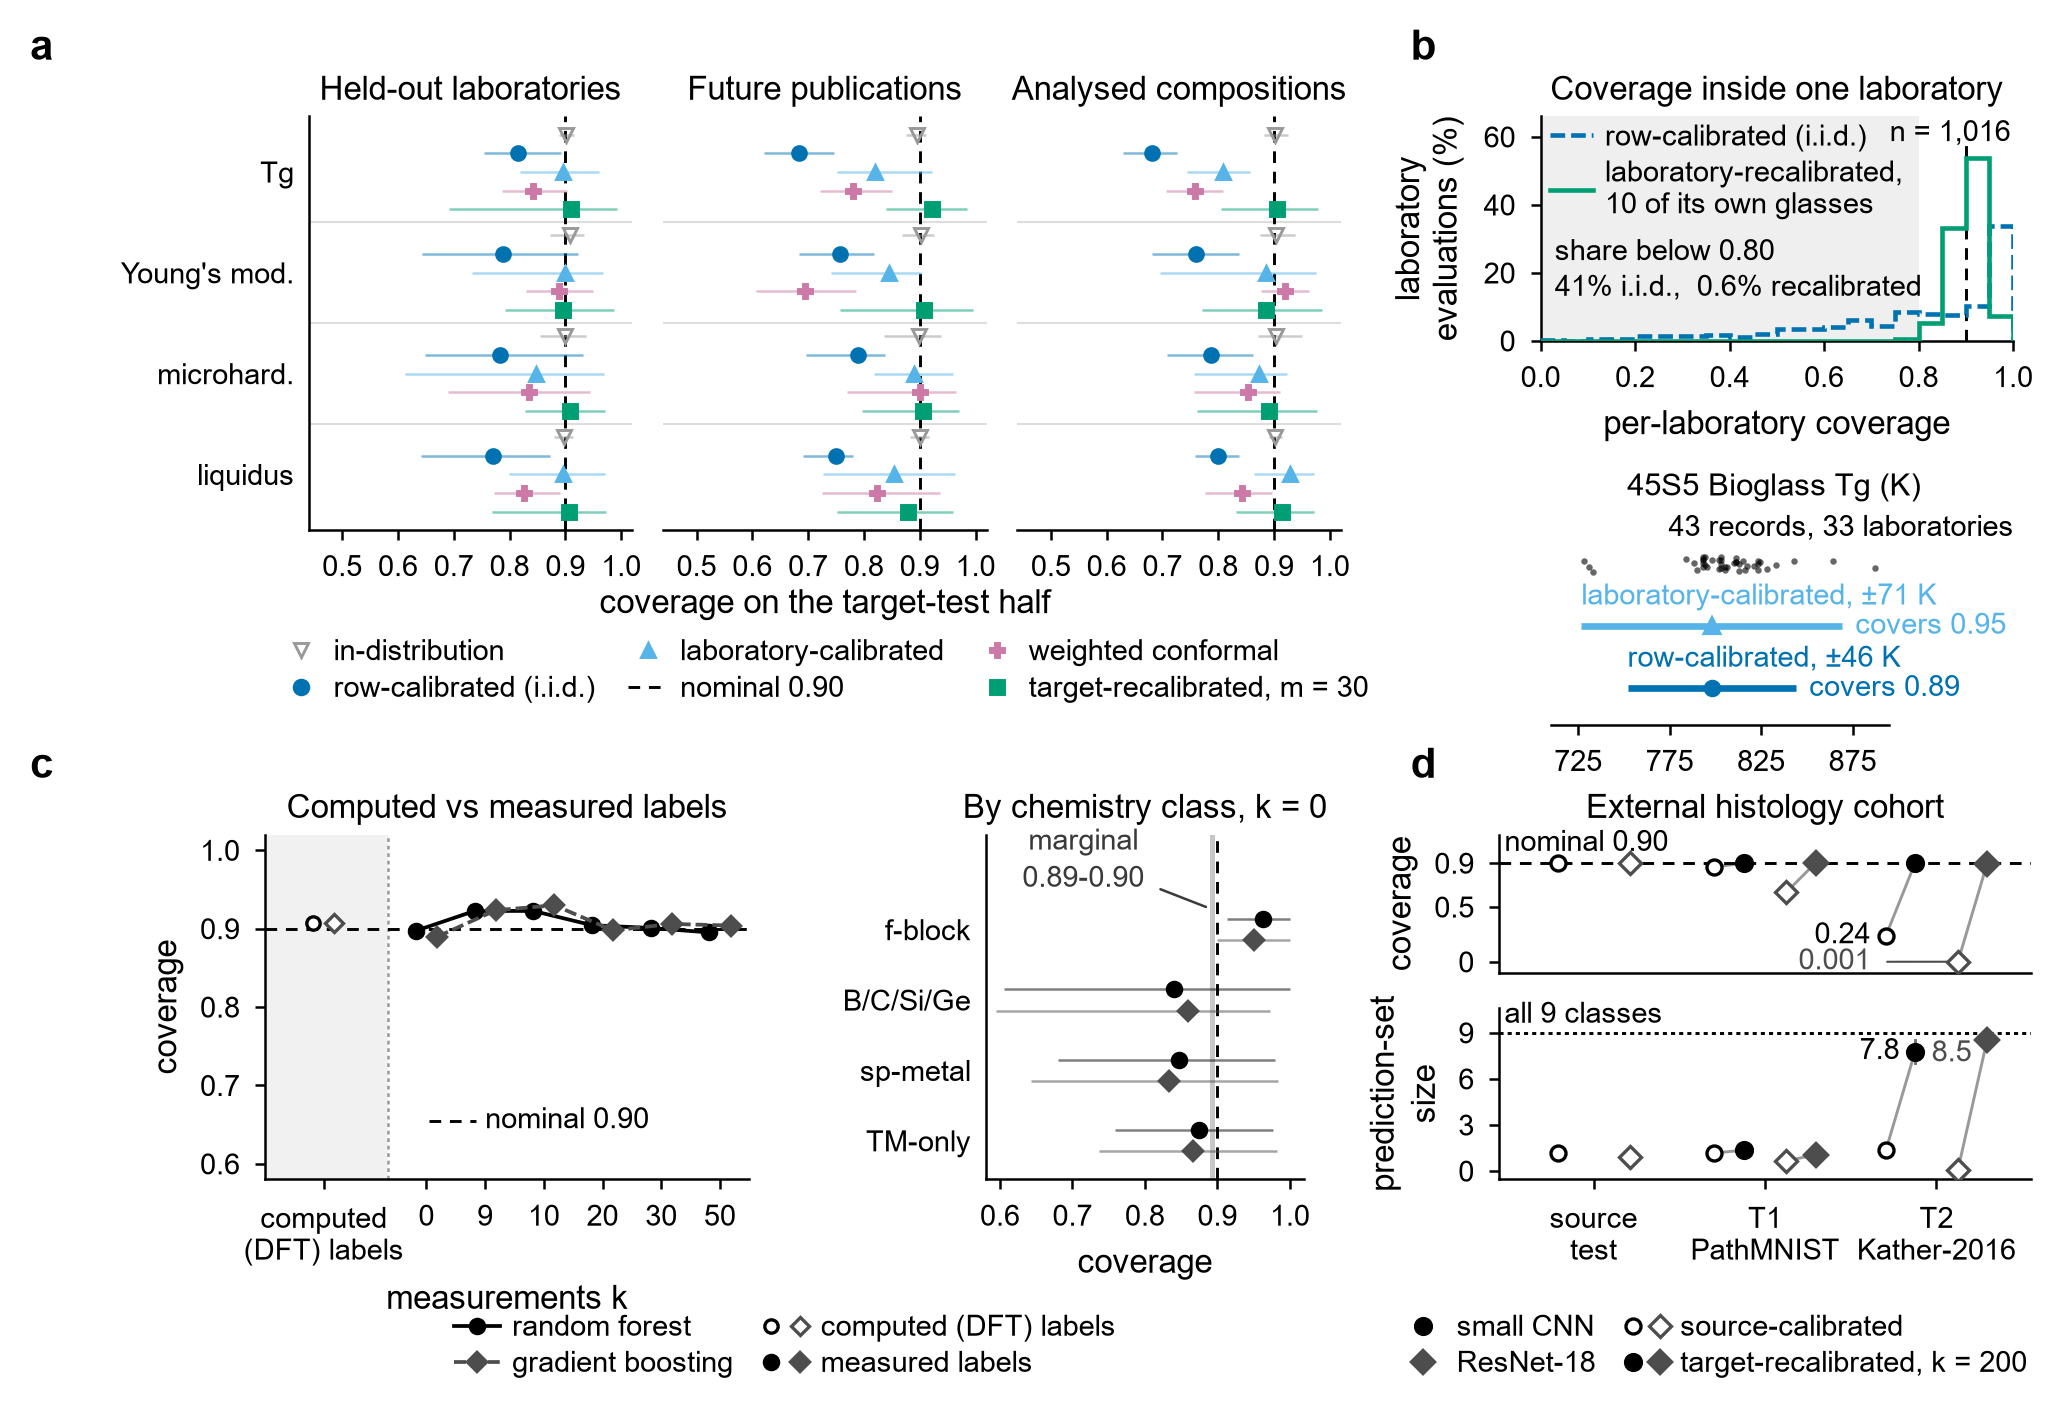
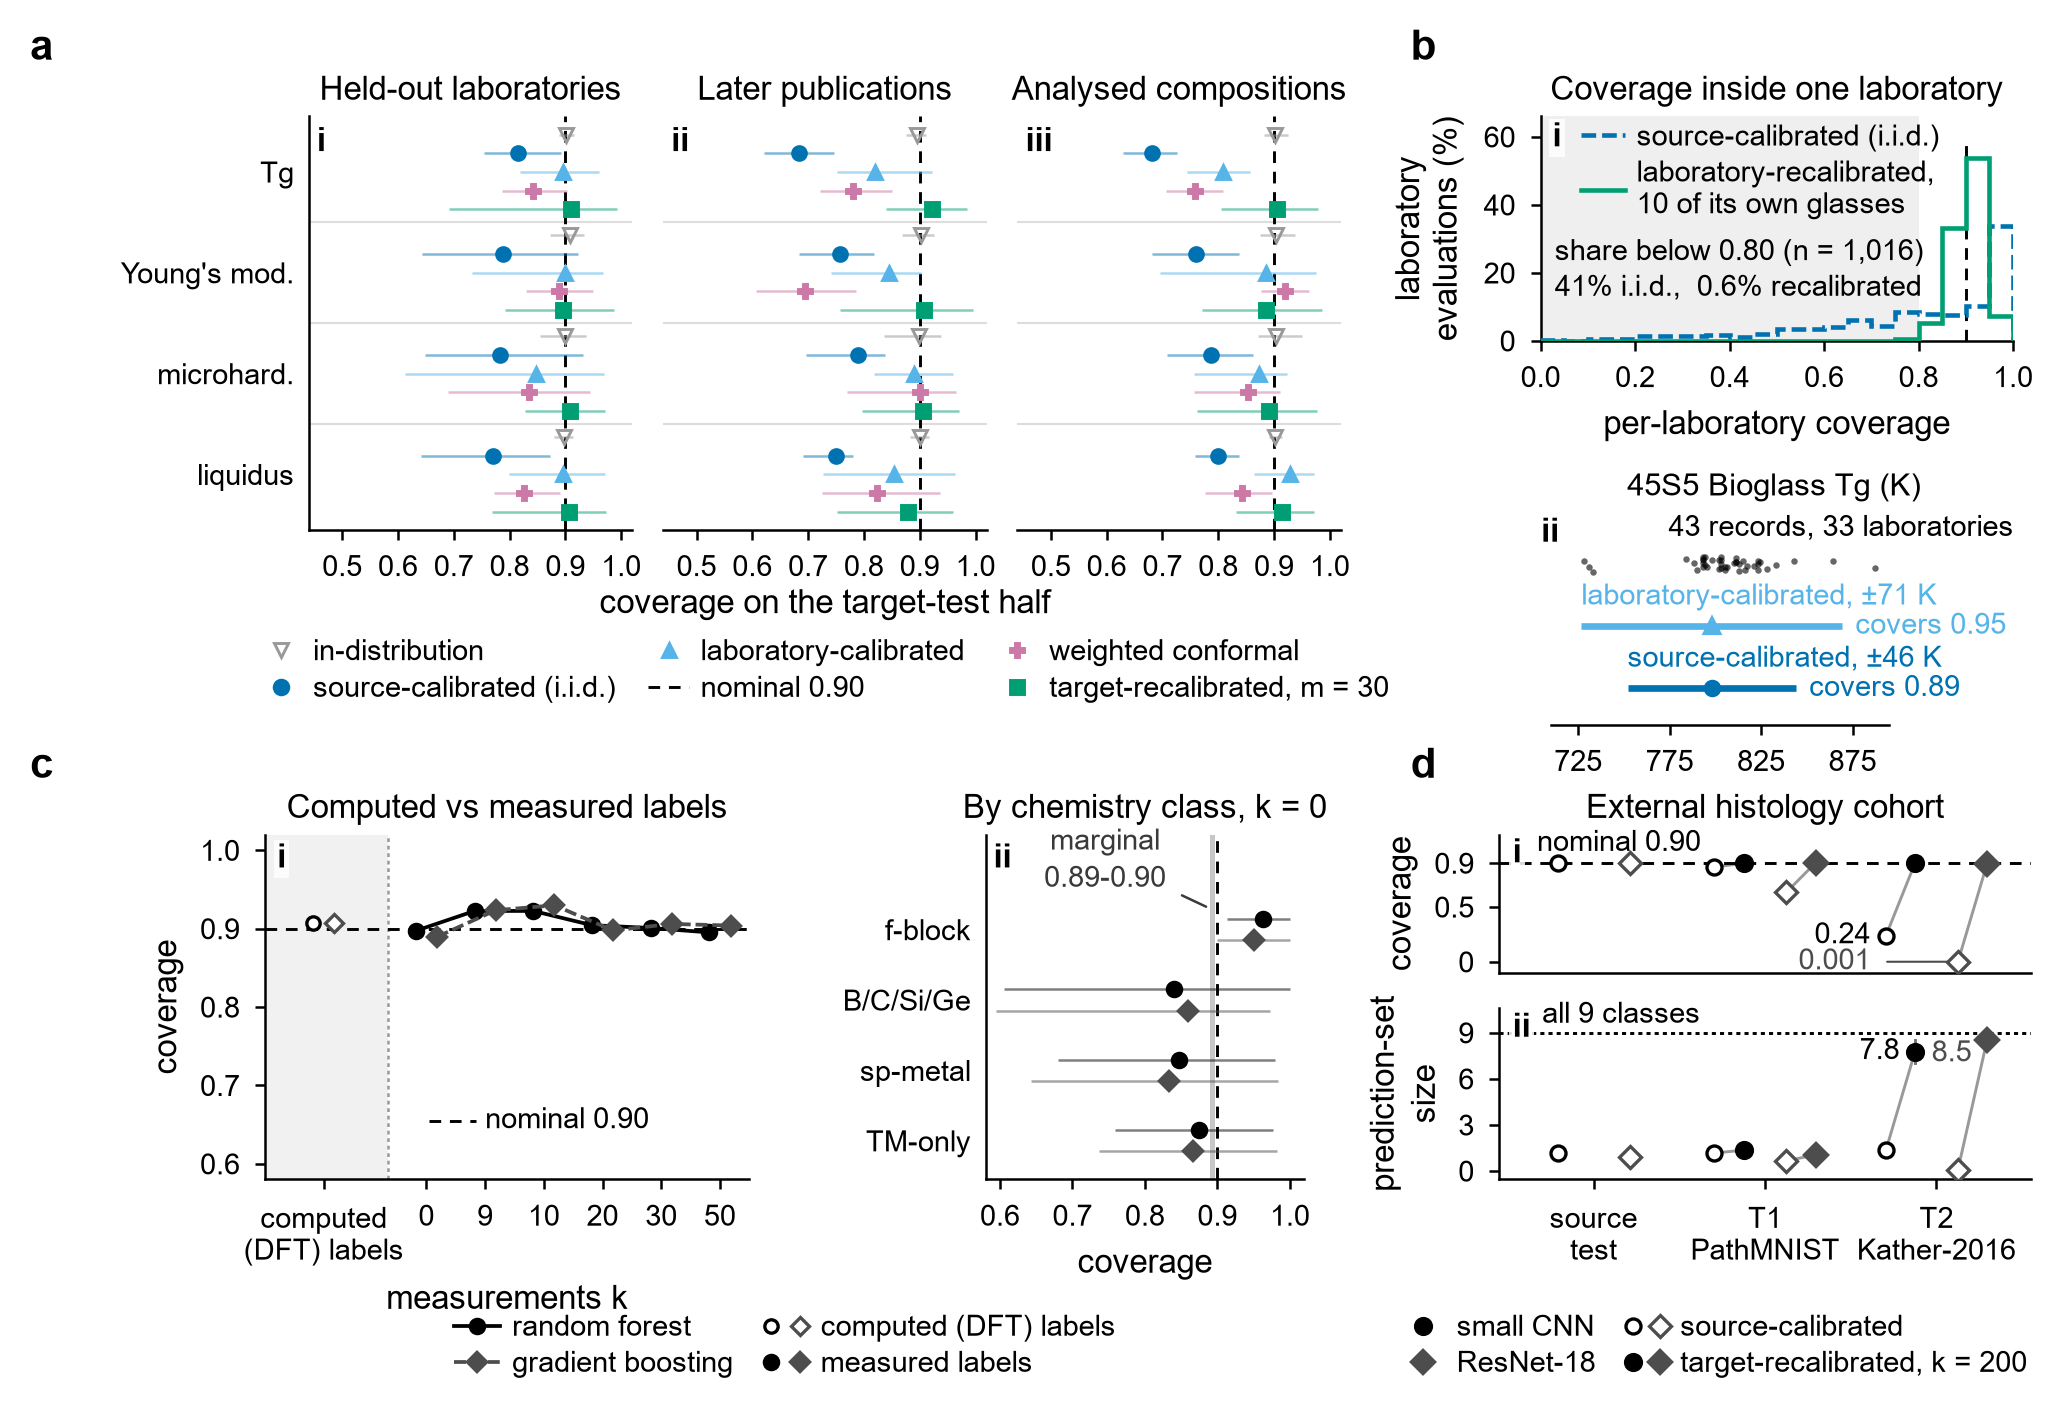
Fig 5: bold i/ii/iii sub-panel labels, source-calibrated key; Fig 7d: abstention on the design-region IQR scale

diff --git a/figures/fig5_genuine_shifts.py b/figures/fig5_genuine_shifts.py
@@ -120,11 +120,11 @@ def box(x0, y0, x1, y1):
 # ===================================================================== a
 PROPS = [("Tg", "Tg"), ("YoungModulus", "Young's mod."),
          ("Microhardness", "microhard."), ("Tliquidus", "liquidus")]
-FAM = [("A_labout", "Held-out laboratories"), ("B_temporal", "Future publications"),
+FAM = [("A_labout", "Held-out laboratories"), ("B_temporal", "Later publications"),
        ("C_analysed", "Analysed compositions")]
 # key, label, colour, marker, marker face  (colour AND marker AND row are redundant)
 METH = [("id.row.coverage", "in-distribution", GREY, "v", "none"),
-        ("tgt_test_a.row.coverage", "row-calibrated (i.i.d.)", ROLE["source"], "o", None),
+        ("tgt_test_a.row.coverage", "source-calibrated (i.i.d.)", ROLE["source"], "o", None),
         ("tgt_test_a.lab.coverage", "laboratory-calibrated", OI["skyblue"], "^", None),
         ("weighted.test_a.coverage", "weighted conformal", OI["purple"], "P", None),
         ("recal_a.m.coverage", "target-recalibrated, m = 30", ROLE["recal"], "s", None)]
@@ -203,14 +203,13 @@ axB.set_title("Coverage inside one laboratory", fontsize=8)
 # key: line style carries the series identity, so it is legible without colour,
 # and it sits in the empty upper-left corner, outside the two histograms.
 hB = [Line2D([], [], color=ROLE["source"], lw=1.1, ls=LS_SRC,
-             label="row-calibrated (i.i.d.)"),
+             label="source-calibrated (i.i.d.)"),
       Line2D([], [], color=ROLE["recal"], lw=1.1, ls="-",
              label="laboratory-recalibrated,\n10 of its own glasses")]
-axB.legend(handles=hB, loc="upper left", bbox_to_anchor=(-0.012, 1.03),
+axB.legend(handles=hB, loc="upper left", bbox_to_anchor=(0.055, 1.03),   # clear of sub-panel label i
            handlelength=1.5, handletextpad=0.4, labelspacing=0.22, borderpad=0.0)
 # the two shares, named in words so that nothing here depends on colour
-axB.text(0.995, 65.0, f"n = {len(row):,}", fontsize=7, ha="right", va="top")
-axB.text(0.03, 30.0, "share below 0.80", fontsize=7, ha="left", va="top")
+axB.text(0.03, 30.0, f"share below 0.80 (n = {len(row):,})", fontsize=7, ha="left", va="top")
 axB.text(0.03, 19.5, f"{sh_row * 100:.0f}% i.i.d.,  {sh_l10 * 100:.1f}% recalibrated",
          fontsize=7, ha="left", va="top")
 
@@ -227,7 +226,7 @@ axBi.scatter(rec, 2.55 + rng.uniform(-0.15, 0.15, len(rec)), s=2.4, marker="o",
 for y, q, col, mrk, cv, nm in [(1.35, q_lab, OI["skyblue"], "^", c_lab,
                                 "laboratory-calibrated"),
                                (0.15, q_row, ROLE["source"], "o", c_row,
-                                "row-calibrated")]:
+                                "source-calibrated")]:
     axBi.plot([cen - q, cen + q], [y, y], color=col, lw=1.6, solid_capstyle="butt",
               zorder=3)
     axBi.plot([cen], [y], marker=mrk, ms=3.2, color=col, zorder=4)
@@ -321,7 +320,7 @@ axC2.set_xlabel("coverage")
 axC2.set_title("By chemistry class, k = 0", fontsize=8)
 # the marginal value is named with its numbers and its leader ends on the LEFT
 # edge of the grey band, so that it cannot be read as pointing at nominal 0.90
-axC2.annotate(f"marginal\n{mlo:.2f}-{mhi:.2f}", xy=(mlo, 3.30), xytext=(0.715, 4.00),
+axC2.annotate(f"marginal\n{mlo:.2f}-{mhi:.2f}", xy=(mlo, 3.30), xytext=(0.745, 4.00),
               fontsize=7, color="#3A3A3A", ha="center", va="center", linespacing=1.25,
               arrowprops=dict(arrowstyle="-", lw=0.6, color="#3A3A3A",
                               shrinkA=2, shrinkB=1))
@@ -370,7 +369,7 @@ axD1.set_ylabel("coverage")
 axD1.set_xticklabels([])
 axD1.tick_params(axis="x", length=0)
 axD1.set_title("External histology cohort", fontsize=8)
-axD1.text(-0.52, 0.955, "nominal 0.90", fontsize=7, ha="left", va="bottom",
+axD1.text(-0.33, 0.955, "nominal 0.90", fontsize=7, ha="left", va="bottom",
           color=ROLE["ideal"])
 T2 = {m: R5["architectures"][m]["results"]["T2_Kather2016_5class"]["LAC"]
       for m, _, _, _ in MODd}
@@ -389,7 +388,7 @@ axD2.set_ylim(-0.55, 10.6)
 axD2.set_yticks([0, 3, 6, 9])
 axD2.set_ylabel("prediction-set\nsize", linespacing=1.2)
 axD2.set_xticklabels([d for _, d in DOM])
-axD2.text(-0.52, 9.25, f"all {NCLASS} classes", fontsize=7, ha="left", va="bottom",
+axD2.text(-0.30, 9.25, f"all {NCLASS} classes", fontsize=7, ha="left", va="bottom",
           color=ROLE["ideal"])
 axD2.text(2 - DXMOD + DXCAL - 0.09, T2["SmallCNN"][KR]["set_size"]["mean"],
           f"{T2['SmallCNN'][KR]['set_size']['mean']:.1f}", fontsize=7, ha="right",
@@ -428,6 +427,17 @@ fig.legend(handles=hD, labels=[MODd[0][1], MODd[1][1], "source-calibrated",
            ncol=2, handlelength=1.5, handletextpad=0.4, labelspacing=0.3,
            columnspacing=1.0, borderpad=0.0,
            handler_map={tuple: HandlerTuple(ndivide=None, pad=0.35)})
+
+# ============================================== sub-panel labels (editor: i ii iii, bold, top left)
+def sub(ax, roman, x=0.025, y=0.975):
+    ax.text(x, y, roman, transform=ax.transAxes, fontsize=8, fontweight="bold",
+            ha="left", va="top", zorder=9,
+            bbox=dict(fc="white", ec="none", alpha=0.85, pad=0.8))
+
+
+for ax, r in [(axA[0], "i"), (axA[1], "ii"), (axA[2], "iii"), (axB, "i"), (axBi, "ii"),
+              (axC1, "i"), (axC2, "ii"), (axD1, "i"), (axD2, "ii")]:
+    sub(ax, r)
 
 # ===================================================================== save
 fig.canvas.draw()

diff --git a/figures/fig7_uq_scorecard.py b/figures/fig7_uq_scorecard.py
@@ -250,7 +250,7 @@ TD = len(DS6) - 1
 D_LO, D_HI = -8.6, TD + 1.9
 for y, d in zip(YD, DS6):
     S = D[d]["SHIFT_SRC"]["SC"]
-    keep = 1.0 - S["abstain_1iqr"]["mean"]
+    keep = 1.0 - S["abstain_1iqr_ref"]["mean"]      # on the target-IQR scale, as in the text and legend
     cov = S["coverage"]["mean"]
     axD.plot([cov, keep], [y, y], color=GREY, lw=0.8, zorder=1)
     axD.plot([keep], [y], ls="none", marker=style.MARK["source"], ms=4.2,
@@ -278,15 +278,15 @@ QA["d.legend"] = axD.legend(
                     color=style.ROLE["fail"], label="coverage on the design region")],
     loc="lower left", bbox_to_anchor=(-0.012, 0.315), handlelength=0.9,
     borderpad=0.15, labelspacing=0.25, handletextpad=0.35)
-# The threshold IQR is the one the rule can see at decision time (the target
-# recalibration pool, JSON iqr_seed0.abst_shift), which is NOT the reporting IQR
-# that normalises the widths (iqr_seed0.report_tgt); both are named here.
+# The threshold is the IQR of the whole design region (JSON abstain_1iqr_ref, the
+# report_tgt scale that also normalises the widths), as the text and legend state;
+# on the source-domain IQR (abstain_1iqr) the rule is silent on three tasks, not four.
 # Three short lines that start INSIDE the left spine: a wider two-line version
 # has to be anchored left of the spine, and the spine is then drawn through the
 # type, which is the same defect as a reference line crossing a legend.
 QA["d.note"] = axD.text(0.005, -6.22,
                         "rule: abstain if the interval is wider than 1 × IQR\n"
-                        "of the target recalibration pool.  After recalibration\n"
+                        "of the design region.  After recalibration\n"
                         "every candidate abstains, at 2.1–5.1 × target IQR.",
                         fontsize=7, ha="left", va="center", color=INK, linespacing=1.35)
 
@@ -345,7 +345,7 @@ for d in DS6:
           f"nW {S['norm_width']['mean']:.2f}  |  recal: not abstained "
           f"{1 - T['abstain_1iqr']['mean']:.2f}  coverage {T['coverage']['mean']:.3f}  "
           f"nW {T['norm_width']['mean']:.2f}  |  IQR seed0: report_tgt "
-          f"{Q['report_tgt']:.1f}  abst_shift {Q['abst_shift']:.1f}")
+          f"{Q['report_tgt']:.1f}  abst_shift_src {Q['abst_shift_src']:.1f}")
 nwr = vals("SHIFT_RECAL", "SC", "norm_width", DS6)
 print(f"  recalibrated normalised width, median {statistics.median(nwr):.2f} "
       f"[{min(nwr):.2f}, {max(nwr):.2f}] x target IQR")
